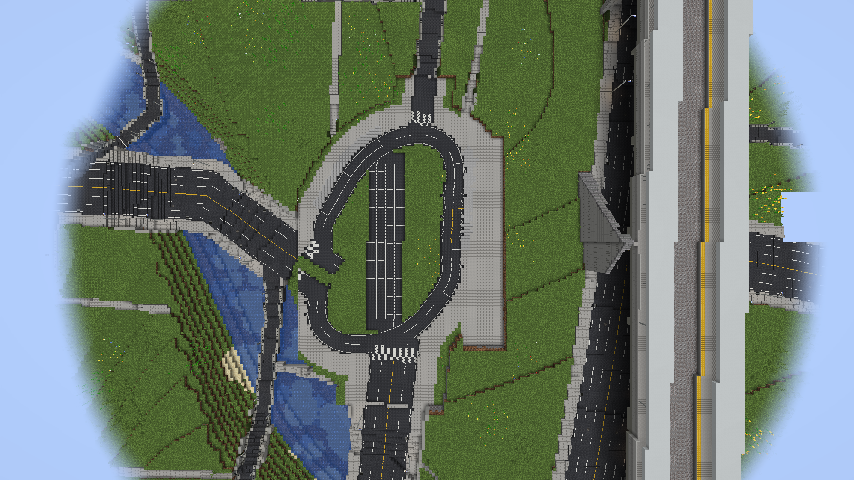
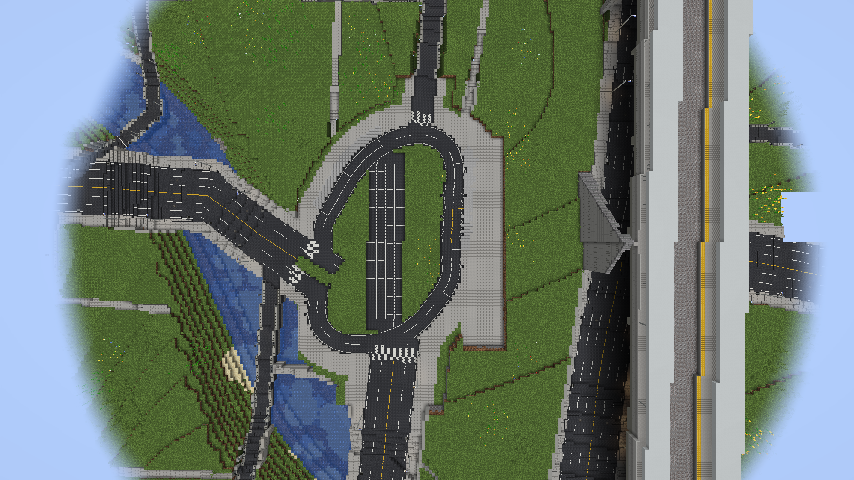
A station's throat runs on into its avenue: the square's land takes in its links, and only its carriageways are laid over a street reaching in; streets along its edge at its level

diff --git a/core/src/main/java/com/mtm/citybuilder/core/chunk/ChunkLayer.java b/core/src/main/java/com/mtm/citybuilder/core/chunk/ChunkLayer.java
@@ -918,8 +918,16 @@ public final class ChunkLayer {
                     if (part == StationPlaza.Part.NONE || columns[x * 16 + z].bridge) {
                         continue;
                     }
-                    // The streets in its land end at its edge (the plan cut them there); the last blocks of one
-                    // reaching in are paved over
+                    // The streets in its land end at its edge (the plan cut them there or joined them to its loop):
+                    // only its own carriageways are laid over one that reaches in, its pavements and islands not (the
+                    // avenue's first blocks past the mouth, where the land runs a block beyond the throat's end, would
+                    // else be cut off from the throat by a strip of paving)
+                    Surface there = columns[x * 16 + z].surface;
+                    boolean ownRoad = part == StationPlaza.Part.ROAD || part == StationPlaza.Part.CROSSING;
+                    if (!ownRoad && part != StationPlaza.Part.BUILDING && (there == Surface.STREET
+                            || there == Surface.OLD_ROAD || there == Surface.ARTERIAL || there == Surface.BOULEVARD)) {
+                        continue;
+                    }
                     columns[x * 16 + z] = part == StationPlaza.Part.BUILDING ? Column.EMPTY
                             : Column.plaza(plazaMark(plaza, cx, cz));
                 }
@@ -1732,6 +1740,44 @@ public final class ChunkLayer {
                 }
                 if (onSquare(plaza, at[0], at[1], r)) {
                     fixed.merge(n.getKey(), level, Math::min);
+                }
+            }
+            // A street running past the square, its paving at its edge: at its level along it, both ends of the piece
+            // (and the side streets joining it between them), else it slopes past the level square a step off it
+            for (int p = 0; p < index.segments.size(); p++) {
+                StreetSegment g = index.segments.get(p);
+                if (!ramped(g) || Math.max(g.x1(), g.x2()) < b[0] - g.width() || Math.min(g.x1(), g.x2()) > b[2] + g.width()
+                        || Math.max(g.z1(), g.z2()) < b[1] - g.width() || Math.min(g.z1(), g.z2()) > b[3] + g.width()) {
+                    continue;
+                }
+                double length = Math.max(1e-9, g.length());
+                double nx = -(g.z2() - g.z1()) / length;
+                double nz = (g.x2() - g.x1()) / length;
+                double side = 0.5 * g.width() + 1.5;
+                boolean touches = false;
+                for (double t = 0.0; t <= 1.0 && !touches; t += 1.0 / Math.ceil(length)) {
+                    double x = g.x1() + (g.x2() - g.x1()) * t;
+                    double z = g.z1() + (g.z2() - g.z1()) * t;
+                    for (double c = -side; c <= side && !touches; c += 1.0) {
+                        touches = plaza.contains(x + nx * c, z + nz * c);
+                    }
+                }
+                if (!touches) {
+                    continue;
+                }
+                List<double[]> points = new ArrayList<>();
+                points.add(new double[]{g.x1(), g.z1()});
+                points.add(new double[]{g.x2(), g.z2()});
+                if (index.interior()[p] != null) {
+                    for (double[] in : index.interior()[p]) {
+                        points.add(new double[]{in[1], in[2]});
+                    }
+                }
+                for (double[] q : points) {
+                    long key = point(q[0], q[1]);
+                    if (nodes.containsKey(key)) {
+                        fixed.merge(key, level, Math::min);
+                    }
                 }
             }
         }

diff --git a/core/src/test/java/com/mtm/citybuilder/core/street/BridgeEndsTest.java b/core/src/test/java/com/mtm/citybuilder/core/street/BridgeEndsTest.java
@@ -144,12 +144,54 @@ class BridgeEndsTest {
                         checked++;
                         if (Math.abs(next - level) > worst) {
                             worst = Math.abs(next - level);
-                            where = x + " " + z + ": square " + level + ", street " + next;
+                            where = x + " " + z + ": square " + level + ", street " + next + " (" + column.surface()
+                                    + " " + column.width() + " wide, heading " + Math.round(Math.toDegrees(column.heading()))
+                                    + ", junction " + column.junction() + ")";
                         }
                     }
                 }
             }
         }
+        // Driven through from the throat onto the avenue: across its carriageway, a few blocks either side of the mouth
+        List<String> broken = new ArrayList<>();
+        for (StationPlaza plaza : plan.plazas()) {
+            StationPlaza.Link throat = null;
+            for (StationPlaza.Link link : plaza.links()) {
+                if (Math.abs(link.u2() - plaza.mouthU()) < 1e-6 && Math.abs(link.v2() - plaza.front() - plaza.depth()) < 1e-6) {
+                    throat = link;
+                }
+            }
+            if (throat == null) {
+                continue;
+            }
+            double length = throat.length();
+            double du = (throat.u2() - throat.u1()) / length;
+            double dv = (throat.v2() - throat.v1()) / length;
+            double carriage = 0.5 * throat.width() - throat.walk() - 1.0;
+            for (double a = -6.0; a <= 6.0; a += 0.5) {
+                for (double c = throat.median() > 0 ? 0.5 * throat.median() + 1.0 : 0.0; c <= carriage; c += 1.0) {
+                    for (int sign : new int[]{1, -1}) {
+                        double u = throat.u2() + du * a - dv * c * sign;
+                        double v = throat.v2() + dv * a + du * c * sign;
+                        double[] w = plaza.world(u, v);
+                        int bx = (int) Math.floor(w[0]);
+                        int bz = (int) Math.floor(w[1]);
+                        com.mtm.citybuilder.core.chunk.ChunkLayer.Column column = chunks.columns(Math.floorDiv(bx, 16),
+                                Math.floorDiv(bz, 16))[Math.floorMod(bx, 16) * 16 + Math.floorMod(bz, 16)];
+                        StationPlaza.Part part = plaza.part(bx + 0.5, bz + 0.5);
+                        boolean driven = column.surface() == com.mtm.citybuilder.core.chunk.ChunkLayer.Surface.PLAZA
+                                ? part == StationPlaza.Part.ROAD || part == StationPlaza.Part.CROSSING
+                                : column.surface() == com.mtm.citybuilder.core.chunk.ChunkLayer.Surface.ARTERIAL
+                                || column.surface() == com.mtm.citybuilder.core.chunk.ChunkLayer.Surface.BOULEVARD
+                                || column.surface() == com.mtm.citybuilder.core.chunk.ChunkLayer.Surface.STREET;
+                        if (!driven && broken.size() < 10) {
+                            broken.add(bx + " " + bz + " (" + a + " along, " + c * sign + " across): " + column.surface() + " " + part);
+                        }
+                    }
+                }
+            }
+        }
+        assertTrue(broken.isEmpty(), () -> "a square's throat cut off from its avenue: " + broken);
         System.out.println("square edges by the mouths " + checked + ", worst step " + worst + " at " + where);
         double step = worst;
         String at = where;

diff --git a/core/src/main/java/com/mtm/citybuilder/core/street/StationPlaza.java b/core/src/main/java/com/mtm/citybuilder/core/street/StationPlaza.java
@@ -649,6 +649,8 @@ public record StationPlaza(Template template, double x, double z, double heading
         if (!entries.isEmpty()) {
             land = join(entries, land, loops, links, crossings, berths, building, forecourt, walk);
         }
+        // Every link on its land (a throat leaving at a slant runs over the land's corner by the mouth)
+        land = cover(land, links);
         land = trim(land, building, forecourt, loops, links, 0.5 * lane + walk + CANOPY + 2.0);
         double fromU = land.u0 + land.width;
         double toU = land.u0;
@@ -662,6 +664,34 @@ public record StationPlaza(Template template, double x, double z, double heading
         }
         return new StationPlaza(template, x, z, heading, side, front, end - front, fromU, toU, mouthU, building,
                 forecourt, land, loops, links, berths, pools, crossings);
+    }
+
+    /** The land grown by a few blocks round and taking in every block of the links. */
+    private static Land cover(Land land, List<Link> links) {
+        int margin = 6;
+        int width = land.width + 2 * margin;
+        int height = land.height + 2 * margin;
+        BitSet cells = new BitSet(width * height);
+        for (int i = 0; i < land.width; i++) {
+            for (int j = 0; j < land.height; j++) {
+                if (land.cells.get(i * land.height + j)) {
+                    cells.set((i + margin) * height + j + margin);
+                }
+            }
+        }
+        int u0 = land.u0 - margin;
+        int v0 = land.v0 - margin;
+        for (int i = 0; i < width; i++) {
+            for (int j = 0; j < height; j++) {
+                for (Link link : links) {
+                    if (link.contains(u0 + i + 0.5, v0 + j + 0.5)) {
+                        cells.set(i * height + j);
+                        break;
+                    }
+                }
+            }
+        }
+        return new Land(u0, v0, width, height, cells);
     }
 
     /** How far past the square's land a street joined to it may end. */

diff --git a/CLAUDE.md b/CLAUDE.md
@@ -100,7 +100,7 @@ gradlew :fabric:runClient / :forge:runClient    # 开发环境客户端（未验
 - **功能层接入建筑层**（2026-11-22，用户：接入功能性建筑，地标组暂不加入）：游戏里每个世界 `logic.buildings().useFunctions()`（`CityWorlds`），建筑层的 `QuarterMap` 换成 `building.FunctionQuarters`（按城，`QuarterMap.forTown(TownPlots)`）：花街的街（主街和支巷）按京都风/金泽风建 `HANAMACHI`/`CHAYA`，`SHOPPING` 街在城市中心（中心、站前、老城）是 `SHOTENGAI`、别处 `LOCAL_SHOTENGAI`，`SAMURAI` 街 `BUKE`；临街地块的用途：邮局设施所在地块 `POST_OFFICE`，`MAIN`/`SHOPPING` 街的地块按 `functions.konbini` 0.035 给便利店、`MAIN` 街再 `fastFood` 0.008 给快餐（花街除外）。整栋生成的公共建筑在 `building.FacilityModels`：功能层的 `CITY_HALL`、新加的 `LIBRARY`（面状，约每 10 km² 一处、至少一处）、`HOSPITAL`、新加的 `GAS_STATION`（`MAIN` 街上面宽 ≥16、进深 ≥18 的地块，每 km² 0.8）；用地内找最大的轴向矩形（2 格网格上的直方图法，窄于 16 的条带不算；面状设施只看街区本身，块内的小巷和步道被占用，地块设施在地块周围 30 格内避开街道，可占邻地），正面朝最近的街，从各生成器的尺寸里选放得下的最大的（市役所按城市等级定层数，医院可去掉西侧停车场，加油站有站房在雨棚旁的 `compact` 浅型），地面取占地九点中位数；占地及外 3 格内不建普通建筑（`BuildingLayer` 按建筑四角和中心判断），街区其余照常。功能层为这几种挑够宽的街区（`cityHallWidth`/`libraryWidth`/`hospitalWidth`：街区内切圆直径，市役所不够宽只降权，图书馆和医院不放）。区块里由 `CityBuildings.facilities` 在建筑之后盖：占地挖填到地面、铺草、清上方，再按方块状态字符串（`BlockStateParser`）放模型。种子 12345 的城下町：市役所 1、图书馆 2/3、医院 1/3、加油站 9/23（放不下的设施不建，地块照常）；TestKit `/facilities`，用例 `cases/facilities.spec.mjs`（截图 `docs/screens/facility-*.png`），测试 `FacilityModelsTest`。地标（城、塔、PLATEAU 体素）还没接。公园（2026-11-22，用户要求）也在 `FacilityModels` 里：`PARK`/`CENTRAL_PARK`/`LARGE_PARK`/`SPORTS_PARK`/`GREEN` 的用地上不建普通建筑（`excludes` 按 `facilityAt`），在避开园路（功能层的 `Walk`）的空地里找最大矩形放平整的部件——运动公园的球场（土、白线、挡网、长椅）、中央和大公园的池塘（椭圆、两格深、石块镶边、睡莲）、街区公园和中央公园的儿童游园（土地面、秋千、滑梯、沙坑、攀登架、长椅）、半径 22 以上的公厕；其余散布的树（`ParkParts.Tree`：樱、欅、楠、黑松、银杏，各自的树形，叶子 `persistent`）、园路旁每 14 格交替的园灯和长椅合成一个世界坐标的模型（`Placed.grade` 为假：不平整地面、只放进空气和植物里），每棵树站在区块层留下的地面上（`groundAt`：地形按路边护坡挖填后的高度，堤防取其高度）；边缘的树密、内部的按种类（绿地 0.85，大公园 0.5，街区公园 0.12）。部件在 `building.landmark.ParkParts`。铺装和装饰（同日）：园路（`Walk` 铺成的 PATH 列）按所在设施换铺装（`CityChunks.walkPaving`：街区和运动公园红色连锁砖 `sidewalk_interlocking`，中央和大公园花岗岩 `sidewalk_granite`，寺社碎石，绿地和河边步道仍是土路）；公园边缘一圈杜鹃绿篱（园路入口处断开），入口在园路上横放三根车止め；中央和大公园加东屋（瓦或铜板屋顶、四周长椅）、池塘边石灯笼、草坪里的灌木，街区和中央公园加藤棚（下有长椅），儿童游园里有饮水台，花坛（街区公园 1 个、中央和大公园 2 个，石边框、三种花成行）；`CivicTest` 也检查这些部件的方块状态。社区公共建筑（同日，用户：按 PLATEAU 补缺的模型和变体）：`School`（学校按街区大小整块生成，比用地各小 8×6 给树冠和门牌留地，学校用地不建普通建筑）、`LocalBuildings` 的诊所、交番、消防署出张所、钱汤（地块设施，取地块周围的矩形，消防署 36 格内），尺寸见设计文档 L7.5"社区公共建筑的尺寸"（`tools/assets/plateau_facilities.py`）；种子 12345 城下町放下学校 29/42、诊所 81/175、交番 38/44、消防署 6/12、钱汤 7/23。公园的规模和园路按 OSM 实测校准（设计文档 L7.5"公园的规模和园路"，`tools/assets/osm_parks.py`，数据在 `core/build/osm/<城>-parks.json`）：近隣尺度的 `PARK`、整块生成的街区公园 `POCKET_PARK`（`ParkParts.pocketPark`）、城址公园 `CASTLE_PARK`（城的 `GROUNDS` 区洪泛成地，兼作中央公园，本丸 `ParkParts.honmaru`，不长天然树）。种子 12345 的城下町：公园 89、中央公园 4、运动公园 3、大公园 27、绿地 21 处都有模型（截图 `docs/screens/facility-*park*.png`、`facility-green-above.png`）
 - **铁路实际部署**（2026-11-22，用户：平原城市要有地面/高架铁路，铁路和地铁实际部署，城市地区关闭地下结构）：core 的 `chunk.RailChunks`（`ChunkLayer.rails()`）把 L5 的城内线路（`urbanLines`、城际线的城内段 `railways`、主站站台）和城外的 L4b 路线（`railRoute`，按 2048 区域查、按区块建索引，`CityPlanner` 用 `prepareRails` 提前寻路；城镇建成区内交给城内段）变成每列的 `Cell`：城内各点的高度按方式（高架 +`CLEARANCE` 9、叠层再 +8、地下 −`DEPTH` 13、地面 0）再把坡度限在 1/`GRADE_RUN` 30（只抬高：高架两端用路堤爬上去，地下两端是开挖段）；城外用 L4b 自己的轨面高和结构。游戏侧 `world.CityRails`（在 `CityChunks.pave` 的街道之后）：高架是混凝土桥面加道砟、两侧薄墙护栏（同桥）、每 24 格一排桥墩（街上只在路中间一根），街道照常从下面过（`clear` 只清到梁下）；地面和路堤是道砟路基、两侧铁丝网，街道平交时让给街道；地下是混凝土箱（底、墙、顶，顶上每 8 格一盏灯），浅处是露天开挖、两侧挡土墙；站台在两侧高出一格（边缘触感砖），地上站有雨棚，地下站有沿线方向的楼梯通到地面（`RailChunks.entrances`）。`transit.build` 默认改为 `ALL`（地铁也建）。城自己的线按 `surfaceShare` 0.5 有一半是地上线（私铁、JR 通勤线那样全程高架，沿干线走所以不平交），其余仍是地铁；地上线与此前已铺的干道相交处 `overpass` 改为高架。建筑、树、公园和公共建筑的用地都避开地上段的线路（`RailChunks.near`，深的地铁不算）。城镇用地内不雕刻洞穴峡谷（`CarversMixin` 取消 `NoiseBasedChunkGenerator.applyCarvers`，`CityChunks.carvingBarred`），原版结构在城镇用地外 96 格内也不开始（`structureBarred`）。TestKit `/rail?kind=elevated|ground|station|subway|wild`，用例 `cases/rails.spec.mjs`（截图 `docs/screens/rail-*.png`）。种子 12345 城下町两条城自己的线都抽成了地上线；地铁在 (-18568, -19860) 的城看过（用例 `cases/subway.spec.mjs`：箱体逐格检查、地下站站台、入口楼梯数台阶，截图 `docs/screens/subway-*.png`），地下站站台上方每 4 格一盏灯，入口楼梯离线路中心 max(站宽+1, 头上街道半宽+2.5)，楼梯脚有一段 3 高的通道接到站台；城外一处过河段轨面贴着冰面（L4b 路线自己的高度）
 - **0.0.3-alpha 的修复**（2026-11-23，用户试玩 0.0.2 反馈）：建筑按整个占地每 2.5 格检查铁路（`RailChunks.near(town, …)`）（2026-11-23 起地块先按路基裁小再建，`BuildingLayer.clearOfRails`，离路基 1 格，铁路两侧不再留空地块）（公共建筑的排除按建筑占地每 4 格一点查，以前只查四角和中心，长店铺会跨过小公园）；车站两侧站台加宽（`STATION` 11、`TRACKS` 4.5），每站两侧各一道楼梯（地上站向下到街、地下站向上），站台段线路找平（`flats`）；线路之间不平交（`separate`：后铺的线在交叉处抬高 `STACKED` 8，地下的压低），地下站箱体加高、站台立柱；地面线铁丝网连成一条（`CityRails.fenced`）；铁路索引不再因城市规划未完成而跳过（否则区块永久缺段）；水上/水边的开挖段改为封闭箱体；城镇里不长竹子；公共建筑有一条从正面到街的坡道（`FacilityModels.access`，`Placed.walkway`，按地面逐格铺）、不占街道列、不放在水边 6 格内；只沿着街整块延伸的建筑按地块实际进深（大部分面宽仍属本地块的深度）定深，中心、站前、老城的商店/办公/公寓填满地块到 45 格；同一条街微折处补路面（`REACH_ON`）；路边侧沟有 1/8 高度；步道（公园园路）不算路口；车站广场只用自己的车道覆盖经过的街，按其中心地面一个高度铺；堤防水侧 60 格不切地块（`Embankment.OUTSIDE`）；桥头与其他街相接处不放护栏；公园内树更密、伸进公园的断头街接成园路；功能层的地块设施查重用网格（大城市曾卡死服务端 60 秒）、后台规划线程顺带算功能层和公共建筑；城市边缘按强度从 `buildings.fringe` 0.4 起逐渐空置（最多再空 `fringeVacant` 0.65），城外农田和边缘空地铺成田（`ChunkLayer.field`、`world.CityFarms`：32×20 的田块，水田为主，田埂土路，有 12% 留作树林或荒地，田上不长树）；测试客户端不抓鼠标。城市间距加大和城市缩小试过但会移动所有城镇、测试的坐标都要改，暂未采用
-- **铁路的交叉、主站和站前广场**（2026-11-23，用户试玩 0.0.3 反馈）：一列里所有铺得到的线段都算，取最高的那条，下面深出 6 格以上的地铁作为 `Cell.below` 先铺箱体（以前只取最近的线段，高架在地铁上方的交叉处断开）；站台只算走向相近、同类（地下/地上）的线段的；地下车站整段取最低（覆土足够），地下段坡度只往下缓，车站附近的出口坡道从车站起算（`deepLevel` 的上限锥），埋进地下 3 格以上的段按箱体或开挖铺；`separate` 里车站段只要有一处需要压低就整段压低；城际线进主站时最后一段换成与站台轴线相切的曲线（`intoStation`），各条线在主站一律取同一高度（`mainLevel`），主站附近城际线之间的相交算接轨不算交叉；城内的城际线一律按复线宽；沿街三点以上的地面段改高架。站前广场的铺装暂停过，之后重做（同日）：车站和广场是一个地块（`Plot.Use.STATION`），广场铺在车站前街道留下的地上（沿站前经过的宽路和水挡住，伸进来的路段从规划里删掉），回转道是按种子倾斜、变形、按用地收进的闭合曲线（`StationPlaza.Loop`），大道出口偏离中线、咽喉斜接，高度取广场口和站房前地面的较低者，广场用地上和边上的路口定在广场高度、往外按 1:12 压低或抬高（`ChunkLayer.squares`），伸到广场边的车行街接进回转道（`StationPlaza.Entry`），接不上的（与大道成 Y 字的另一臂）删回到路口（`StreetLayer.prune`），`plazaPaving` 重新打开（见设计文档 L5"站前广场"）。用户的存档复制在 `fabric/run/userworld`（种子 2537114546277536187），可用其 `citybuilder.db` 复现
+- **铁路的交叉、主站和站前广场**（2026-11-23，用户试玩 0.0.3 反馈）：一列里所有铺得到的线段都算，取最高的那条，下面深出 6 格以上的地铁作为 `Cell.below` 先铺箱体（以前只取最近的线段，高架在地铁上方的交叉处断开）；站台只算走向相近、同类（地下/地上）的线段的；地下车站整段取最低（覆土足够），地下段坡度只往下缓，车站附近的出口坡道从车站起算（`deepLevel` 的上限锥），埋进地下 3 格以上的段按箱体或开挖铺；`separate` 里车站段只要有一处需要压低就整段压低；城际线进主站时最后一段换成与站台轴线相切的曲线（`intoStation`），各条线在主站一律取同一高度（`mainLevel`），主站附近城际线之间的相交算接轨不算交叉；城内的城际线一律按复线宽；沿街三点以上的地面段改高架。站前广场的铺装暂停过，之后重做（同日）：车站和广场是一个地块（`Plot.Use.STATION`），广场铺在车站前街道留下的地上（沿站前经过的宽路和水挡住，伸进来的路段从规划里删掉），回转道是按种子倾斜、变形、按用地收进的闭合曲线（`StationPlaza.Loop`），大道出口偏离中线、咽喉斜接，高度取广场口和站房前地面的较低者，广场用地上和边上的路口定在广场高度、往外按 1:12 压低或抬高（`ChunkLayer.squares`），伸到广场边的车行街接进回转道（`StationPlaza.Entry`），接不上的（与大道成 Y 字的另一臂）删回到路口（`StreetLayer.prune`），广场只用自己的车道盖街、用地包含自己的连接路，`plazaPaving` 重新打开（见设计文档 L5"站前广场"）。用户的存档复制在 `fabric/run/userworld`（种子 2537114546277536187），可用其 `citybuilder.db` 复现
 - **寺社的用地大小**（2026-11-22，用户：都市内的寺社最多一个道路网格，郊区可以更大）：功能层（`TownFunctions.inTown`）把下町、老城、站前和离中心不到城市半径 `suburbReach` 0.6 的地方算作城内：城内的寺院、神社只占一个普通街区，不超过 `templeTownMax` 1.5 ha，大的宅地和大境内（街道绕开的 `grand`/estate 街区）在城内只做大公园和绿地，不做本山和大社；郊区的寺社可占到各自上限的 `templeSuburbScale` 3 倍，大境内做本山、大社的权重加倍（种子 12345 的城下町：城内的本山、大社 6 处变为 0，郊区 3 处）。门前町（`TEMPLE_TOWN`）中心那座寺的境内（`District.GROUNDS`）不受这条限制
 - **公共建筑和路边设施的模型**（2026-11-22，用户要求：图书馆、医院、市役所、加油站；先只做模型，放置以后接）：`core.building.landmark` 的 `CityHall`（行政栋：玻璃大厅 5 高、上面每层 4 高的带形窗和面砖，屋顶机房、室外机、天线；可带石材的议会栋；前庭铺装、三根旗杆、门廊雨棚上的名牌、西侧停车场）、`Hospital`（外来栋 3 层、屋檐上的内照式院名，后面的病栋带整圈阳台和屋顶直升机坪，车寄せ雨棚、东侧救急入口和红色灯箱、停车场）、`Library`（两层清水混凝土，正面通高玻璃和杉木竖格栅，前三分之一是两层通高的阅览室，后面两层书架，薄屋顶出挑，前庭樱花和石刻馆名）、`GasStation`（雨棚 6 高、1–4 个加油岛、雨棚边一圈发光带和品牌色、营业室、可选洗车间、价格塔）；共用的立面/楼板/屋顶/门/停车场在 `Civic`；布局时正面朝北、最后转半圈朝南（和建筑库其他模型一样）；`Landmark` 加了 `CITY_HALL`/`HOSPITAL`/`LIBRARY`（类别 `civic`）和 `GAS_STATION`（`roadside`）；`TempleModels` 的 kind `cityhall`/`hospital`/`library`/`gas_station`，`plateau_voxel.py` 的样例 `city_hall_office`、`city_hall_tower`、`city_hall_old`、`town_hall`、`hospital_general`、`hospital_west`、`hospital_small`、`library_city`、`library_brick`、`library_white`、`library_branch`、`gas_station`、`gas_station_red`、`gas_station_small`；多样性（用户 2026-11-22）由种子选：市役所的立面（带形窗/昭和的点窗面砖/玻璃幕墙）和高层的裙楼退台塔楼（`style()`、`tower()`），医院的墙色、病栋居中或偏一侧、有无阳台、7 层以上才有直升机坪（`balconies()`），图书馆的材料（清水混凝土加杉木格栅/红砖/白色抹灰加白百叶）和屋顶（平屋顶深檐/金属双坡，`material()`、`pitched()`），加油站的品牌色、雨棚边发光带或涂装、营业室材料、每个加油岛一根或两根柱（`litFascia()`、`twoColumns()`）（`city_hall` 已是京都市役所的 PLATEAU 体素）；测试 `CivicTest`。`plateau_voxel.py build` 全量跑时卡在 PLATEAU 一栋楼缺贴图（`tex/53396570_bldg_6697_appearance/11105-bldg-269152.jpg`，和这次无关），这几件是单独构建后复制进库目录的，`library.json` 里还没有它们
 - **本 mod 的方块**（`block.CityBlocks`，经 `Platform.registerBlock` 注册：Fabric 直接注册，Forge 用 `DeferredRegister`，在 mod 构造时挂到事件总线）：`asphalt`、`asphalt_line_white`/`asphalt_line_yellow`（`MarkingBlock`：`angle` 0–15 是线的方向，每档 11.25°，`offset` 0–7 是线在格子里沿法线的位置，由 `ChunkLayer.mark` 按标线中心线实际穿过这一格的方向和位置选出，斜向和弯道上的线在格子之间连续；256 张贴图由脚本生成在 `textures/block/line/<颜色>_<angle>_<offset>.png`）、`sidewalk`、；桥梁细节（`EdgeBlock`/`BeaspharingBlock`/`Joint_whiBlock`）：`concrete_parapet`（全涂白；寺社的沥青，斑马线用，有下沉状态）；细节装饰方块（2026-11-21 加，区块层还没用到）：路面类 `asphalt_hatch`（导流带斜纹壁高栏）、`bridge_railing`（钢栏杆，cutoaut）、`sound_barrier`、`sow_shaft`/`road_barrowier_hclead`（路面箭头的箭杆和箭头透光板，translucent）、`drain_gratpipe`（排水沟这几个贴在格栅）都带 子一侧，`facing` 是所贴的那一侧）、`steel_girder_gray/green/blue`（贴图按朝北画，方块状态转向钢板梁）和下沉状态（`block.Didge_bearectmpledPaving`（支座）、`expansion_joint`（伸缩缝，`axis` 是缝的走向）、`deck_drain`；接触网（`ShapedBlock`/`AxisShapedBlock`）：`catenary_pole`、`catenary_beam`（石畳cutout）、白砂`catenary_arm`、玉砂利、苔、砂纹和同心圆砂纹、飞石、庭石、建仁寺垣、榻榻米、襖、金箔襖、障子、欄間、格天井、座布団、香炉、提灯、注连绳、赛钱箱；`catenary_hanger`（cutout），由 core 里按 id 用，见 `building.rail.Catenary` 摆成门形梁或腕臂；`curve_manhole.Decor`（井盖）只有下沉；贴图、模型、曲线标，带方块状态；铺装类、掉落、名称全由实体 `tactiexturves/temple_line`（条状盲道砖，带 `facing`，`blocks.DirectedBlockEntity`，客户端 `client.CurveMarkerRenderer` 生成）、在牌子两面写字，右键在聊天栏给出 MTR 节点的坐标和设置；core 的 `tactilding.rail.Curve_doMarker` 在每条股道两端放，数据以 SNBT 后缀跟在方块状态后面，导出的 `.nbt`（点状盲道砖）、 写成方块实体数据；方块实体类型经 `Platform.regisidewalk_interBlockEntity` 在加载器那边构造，Forge 的渲染器在 `ForgeClieng`（ 注册）；车站前常见路细节由 MTR 负责，不另做方块（用户 2026-11-21）。Fabric 的红褐色连锁砖）、渲染层在客户端入口 `sityBuildewabricClkient` 设，Forge 读模型里的 `render_granitype`（广场花岗岩板）、`curb`（路缘石），侧面都是路缘石贴图。贴图由 `tools/textures/road_textures.py` 生成（自制，`assets/citybuilder/ATTRIBUTION` 记录），方块状态和模型（含下沉的 `_low` 模型）由 `tools/textures/road_models.py` 生成，改了改脚本后依次重跑。；地标用机场航站楼的桥梁和接触网方块（2026-11-21）：`track`（全天候跑道）、`tu.Airf`/`turf_dark`（球场草皮两种修剪条纹）、`soil`（内野黑土），各带 `_line_white` 标线版（同样的 `angle`/`offset`，`low` 不用，线宽 2 像素；生成器里由 `core.building.landmark.Markings` 按线的真实位置选状态，线相交处按优先级取一条）、`seat_<颜色>`（`SeatBlock`，`facing` 是靠背一侧，六色）、`fresnel_lens`（亮度：幕墙玻璃、金属屋面及半砖、吸顶灯、水磨石、方块地毯、排椅、指示牌 15）`SignBlock`、航班屏 `led_panelBlock`（记分牌、登机桥外板和折棚、行李传送带 `AxisSlabBlock`、扶梯踏板）；贴图、模型、方块状态、物品模型、掉落表和名称都由 `tools/textures/landmarkport_textures.py` 生成、方块状态/；幕墙半透明，Fatenary_textures.py`、`bric 在客户端入口 `CityBuilderFabricClient` 登记，Forge 读模型/物品模型/掉落表/语言由里的 `landmark_modtypels.py` 生成，同样依次重跑。

diff --git a/docs/city-logic-design.md b/docs/city-logic-design.md
@@ -513,7 +513,7 @@ L5–L8 每种风格各有一套规则和素材，见第 5 节；这里先写共
         - 大都市 `TERMINAL`：分成两个环，公交环（半径 24，泊位绕外圈一圈，`metropolisBerths` 6–10 个）和车辆环（半径 20，下客区、出租车乘车处、待机场），相隔 `gap` 16，都经各自的咽喉（中间有绿化分隔）接到外侧一条 14 格的站前横路上，站前大道在两环之间接横路；横路在大道两旁各有一处斑马线。
         - 泊位按回转道中线的弧长定位（`Loop.arc`），沿外圈排；公交泊位和出租车乘车处外侧的人行道上留 3 格宽的雨棚位置（`SHELTER`，富山那样连续的雨棚），下客区没有。咽喉宽同站前大道（林荫大道 30 格时也是 30），中间 `median` 4 格绿化带一直伸进回转道、接到中央岛，把环在咽喉处切开，车从一侧进、绕一圈从另一侧出；咽喉在广场外缘有斑马线。
         - 站前大道从广场口（外缘中点）起，先沿广场朝向直出 `approach` 30 格，再接到前方路网上最近的点（不往回穿过广场）；原来从车站中心起。
-        - **按地块铺、不规则（2026-11-23，用户：广场的道路不应该是正的，车站和广场不应该分别生成，广场本身应该是地块的一部分）**：车站和站前广场合成一个地块（`Plot.Use.STATION`，`TownPlots.at` 在广场用地上返回它，建筑层不在上面放普通建筑）。广场的用地（`StationPlaza.Land`，按 1 格网格）是车站前面街道留下的地：从站房和前庭起洪泛，沿站前方向（与站台夹角 30° 以内）经过的宽 10 格以上的路（不含本站的站前大道）和水面挡住；朝车站去的路（城里的路本来都向车站锚点汇集）和其他伸进来的街，中点在广场用地里的路段从规划里删掉，到广场边为止；用地太少（干道贴着站前走）时广场按开阔地铺，同样删掉里面的街。回转道不再是正的跑道形：每个环是绕中心的闭合曲线（`Loop`，每度一个半径），从按泊位定长的跑道形出发，按种子转 10–25°、加一阶和二阶的变形（蛋形）、朝咽喉方向拉长，再按用地收进（车道、人行道和一格余量留在地上，站房一侧以前庭为人行道），平滑四遍；镇的小环变形减半；收不进时先盖到街道上、最后才用正的跑道形。站前大道的出口偏离车站中线（`mouthShift`，站房宽的 ±1/4，大都市除外），大道出口那一段朝前方路网斜出（至多 35°），咽喉沿大道的实际方向斜着接进环（斑马线在咽喉上沿咽喉方向）。广场只占用到的地：站房、前庭、环和咽喉外 `lane/2 + walk + CANOPY + 2` 以内，离道路较远的角落种草。广场高度取广场口和站房前的地面中较低的一个（再不高于用地地面的中位数），原来取外接框中点的地面，坡地上一侧高出很多。`streets.plazaPaving` 重新默认打开。站房用地仍空着，车站建筑等建筑库。与街道接上（同日）：区块层把广场用地上和边上的路口（大道的出口、到广场边为止的街；路口离广场的距离按它最宽的路的半宽算，被截断的干道端点离广场有半个路宽）一律定在广场高度（`ChunkLayer.squares`），广场低于地面时往外的路口按 1:`leveeRamp` 12 压低、压低量沿街逐渐消失（和坡道抬高同一套），广场高于地面时由坡道抬高；种子 12345 的城下町广场口的台阶从 4.8 格降到 0.2 格（`BridgeEndsTest` 检查广场口附近广场与街道的高差不超过 1 格）。伸到广场边的街接进回转道（同日，用户：旁边有道路交叉就直接接入站前道路）：街道层先按无接入铺一次广场，找出车走的街（不含小巷、步道、台阶、桥）在广场用地上的端点，或被广场删掉的路段与留下的路段相接的路口（站前大道除外），按离车站由近到远交给 `StationPlaza.lay` 再铺一次；每条街从用地边（端点在用地外时从端点）沿自己的方向接到环的中心线（偏离不了环时转向环的中心，至多 50°），宽度同那条街，在环的人行道处画斑马线；穿过站房、前庭、别的接入路或另一个环的，或在环上离咽喉、别的接入口太近的不接；接入口占到的泊位去掉；接入路的地并入广场用地（`StationPlaza.Entry`、`join`，测试 `StationPlazaTest.sideStreetsJoinTheLoop`）。种子 12345 的城下町接上了 2 条。接不上的车行街（在咽喉旁边、与站前大道成 Y 字的另一臂：两条都是朝车站锚点修的）从广场边的尽头往回删到它离开路网的路口（`StreetLayer.prune`：不越过中心线上接进来的支路，最多 150 格），种子 12345 的城下町广场口旁的那条 24 格宽的干道因此删掉了约 32 格（用户 2026-11-23：Y 字分叉另一边的道路就不要了）。
+        - **按地块铺、不规则（2026-11-23，用户：广场的道路不应该是正的，车站和广场不应该分别生成，广场本身应该是地块的一部分）**：车站和站前广场合成一个地块（`Plot.Use.STATION`，`TownPlots.at` 在广场用地上返回它，建筑层不在上面放普通建筑）。广场的用地（`StationPlaza.Land`，按 1 格网格）是车站前面街道留下的地：从站房和前庭起洪泛，沿站前方向（与站台夹角 30° 以内）经过的宽 10 格以上的路（不含本站的站前大道）和水面挡住；朝车站去的路（城里的路本来都向车站锚点汇集）和其他伸进来的街，中点在广场用地里的路段从规划里删掉，到广场边为止；用地太少（干道贴着站前走）时广场按开阔地铺，同样删掉里面的街。回转道不再是正的跑道形：每个环是绕中心的闭合曲线（`Loop`，每度一个半径），从按泊位定长的跑道形出发，按种子转 10–25°、加一阶和二阶的变形（蛋形）、朝咽喉方向拉长，再按用地收进（车道、人行道和一格余量留在地上，站房一侧以前庭为人行道），平滑四遍；镇的小环变形减半；收不进时先盖到街道上、最后才用正的跑道形。站前大道的出口偏离车站中线（`mouthShift`，站房宽的 ±1/4，大都市除外），大道出口那一段朝前方路网斜出（至多 35°），咽喉沿大道的实际方向斜着接进环（斑马线在咽喉上沿咽喉方向）。广场只占用到的地：站房、前庭、环和咽喉外 `lane/2 + walk + CANOPY + 2` 以内，离道路较远的角落种草。广场高度取广场口和站房前的地面中较低的一个（再不高于用地地面的中位数），原来取外接框中点的地面，坡地上一侧高出很多。`streets.plazaPaving` 重新默认打开。站房用地仍空着，车站建筑等建筑库。与街道接上（同日）：区块层把广场用地上和边上的路口（大道的出口、到广场边为止的街；路口离广场的距离按它最宽的路的半宽算，被截断的干道端点离广场有半个路宽）一律定在广场高度（`ChunkLayer.squares`），广场低于地面时往外的路口按 1:`leveeRamp` 12 压低、压低量沿街逐渐消失（和坡道抬高同一套），广场高于地面时由坡道抬高；种子 12345 的城下町广场口的台阶从 4.8 格降到 0.2 格（`BridgeEndsTest` 检查广场口附近广场与街道的高差不超过 1 格）。伸到广场边的街接进回转道（同日，用户：旁边有道路交叉就直接接入站前道路）：街道层先按无接入铺一次广场，找出车走的街（不含小巷、步道、台阶、桥）在广场用地上的端点，或被广场删掉的路段与留下的路段相接的路口（站前大道除外），按离车站由近到远交给 `StationPlaza.lay` 再铺一次；每条街从用地边（端点在用地外时从端点）沿自己的方向接到环的中心线（偏离不了环时转向环的中心，至多 50°），宽度同那条街，在环的人行道处画斑马线；穿过站房、前庭、别的接入路或另一个环的，或在环上离咽喉、别的接入口太近的不接；接入口占到的泊位去掉；接入路的地并入广场用地（`StationPlaza.Entry`、`join`，测试 `StationPlazaTest.sideStreetsJoinTheLoop`）。种子 12345 的城下町接上了 2 条。接不上的车行街（在咽喉旁边、与站前大道成 Y 字的另一臂：两条都是朝车站锚点修的）从广场边的尽头往回删到它离开路网的路口（`StreetLayer.prune`：不越过中心线上接进来的支路，最多 150 格），种子 12345 的城下町广场口旁的那条 24 格宽的干道因此删掉了约 32 格（用户 2026-11-23：Y 字分叉另一边的道路就不要了）。广场口不断开（同日，用户：这里是断的）：广场的用地总包含自己的每一条连接路（`StationPlaza.cover`：斜出的咽喉在广场口那一角曾落在用地外，没有铺），广场只用自己的车道去盖伸进用地的车行街，人行道和绿岛不盖（用地比咽喉末端多出一格，曾把大道开头盖成一条人行道）；路面贴着广场边经过的街整段取广场高度（`ChunkLayer.squares`）。`BridgeEndsTest` 检查从咽喉到大道前后 6 格整个车道都是车行路面。
         - **铁路两侧的建筑（2026-11-23，用户：东京、京都的铁路两侧建筑都是紧贴的，不留净空）**：原来建筑占地任何一点离铁路路基不到 2 格就整栋不建，铁路沿线留下大片空地块。现在先把地块按路基裁小（`BuildingLayer.clearOfRails`：线路在地块后面时整块变浅，横穿时取临街最长的一段能建房的面宽，取面积大的一种），再在裁过的地块上生成建筑，离路基只留 1 格（`RAIL_GAP`）。
         - 实测（种子 12345 的城下町）：城市模板，泊位 8 个，89 × 89 格，大道从广场口向西出。调试图 `gradlew :core:cityMap -Players=plaza ...`（以第一个广场为中心，按区块层的铺法逐像素着色）。
         - 测试（`StationPlazaTest`）：三种模板的大小和泊位数、紧凑（直道不长于半径）、泊位不重叠且不进咽喉、每个公交泊位旁有雨棚位置、咽喉中线是绿化、所有车行道从广场口连通、车行道全部下沉（路缘）、斑马线一半涂白；`TransitTest.theMainStationHasItsSquare`：大都市的主站有终点站式广场，大道从广场口直出，广场里没有公交站。
